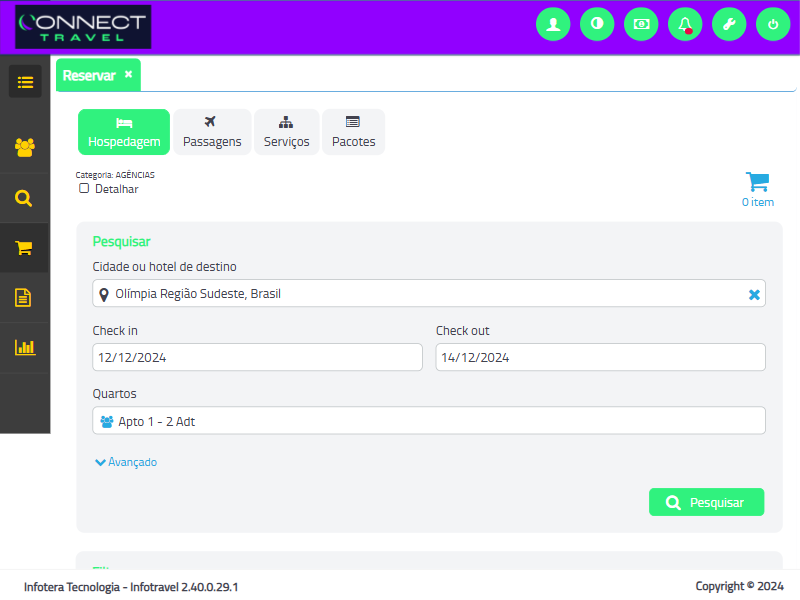
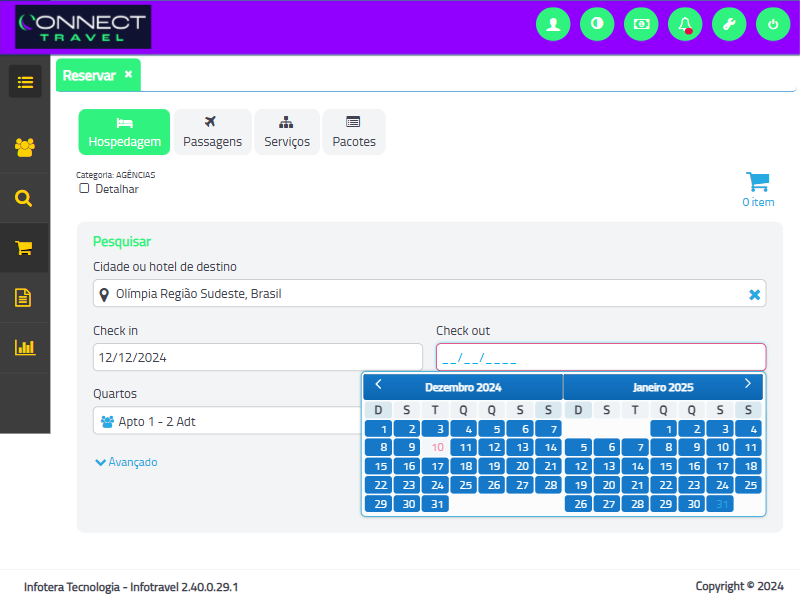
feat: Save

diff --git a/server/src/controllers/Filter/ConnectTravelController.js b/server/src/controllers/Filter/ConnectTravelController.js
@@ -15,10 +15,34 @@ const LONGER_DELAY = 2500
 
 const delay = (ms) => new Promise((resolve) => setTimeout(resolve, ms))
 
+// const waitForSelector = async (page, selector, timeout = 30000) => {
+//   console.log(`Aguardando elemento: ${selector}`)
+//   return await page.waitForSelector(selector, {
+//     visible: true,
+//     hidden: true,
+//     timeout
+//   })
+// }
+
 const waitForSelector = async (page, selector, timeout = 30000) => {
-  console.log(`Aguardando elemento: ${selector}`)
-  await page.waitForSelector(selector, { visible: true, hidden: true, timeout })
-  console.log(`Elemento "${selector}" encontrado.`)
+  try {
+    console.log(`Aguardando elemento: ${selector}`)
+    await page.waitForSelector(selector, {
+      visible: true,
+      hidden: true,
+      timeout
+    })
+    console.log(`Elemento "${selector}" encontrado.`)
+    return true // Retorna true se o elemento for encontrado
+  } catch (error) {
+    if (error.name === 'TimeoutError') {
+      console.warn(
+        `Timeout: Elemento "${selector}" não encontrado após ${timeout}ms.`
+      )
+      return false // Retorna false se não encontrar o elemento no tempo limite
+    }
+    throw error // Re-lança outros erros que não sejam de timeout
+  }
 }
 
 // const getUserInput = (query) => {
@@ -164,9 +188,10 @@ const fillBookingForm = async (
 
   const bedroomsAddAdultInputSelector = '#frmMotorHotel .fakeInput > a'
 
-  const destinationInputSelector = '#frmMotorHotel\\:idDestinoHotel_input'
-  const checkinInputSelector = '#frmMotorHotel\\:dtPartida_input'
-  const checkoutInputSelector = '#frmMotorHotel\\:dtRetorno_input'
+  const destinationInputSelector =
+    '#frmMotorHotel .motor-pesquisa-container > div > div:nth-of-type(2) > div > span > input:first-of-type'
+  const checkinInputSelector = '#frmMotorHotel input[placeholder="Check-in"]'
+  const checkoutInputSelector = '#frmMotorHotel input[placeholder="Check-out"]'
 
   await frame.type(destinationInputSelector, destination)
   await waitForSelector(frame, destinationModalSelector, 30000)
@@ -174,11 +199,17 @@ const fillBookingForm = async (
   await delay(DEFAULT_DELAY)
 
   console.log('[CONCLUÍDO] - Preenchimento de: Destino')
-  // await page.screenshot({ path: 'after-click-01.png' })
 
-  await frame.type(checkinInputSelector, checkInDate)
+  console.log(
+    '[XXXXXXXXXXX] -',
+    checkInDate.toString(),
+    checkOutDate.toString()
+  )
+
+  await frame.type(checkinInputSelector, checkInDate.toString())
   await frame.click(destinationModalClose)
-  await frame.type(checkoutInputSelector, checkOutDate)
+  await frame.click(checkoutInputSelector)
+  await frame.type(checkoutInputSelector, checkOutDate.toString())
   await frame.click(destinationModalClose)
   await delay(DEFAULT_DELAY)
 
@@ -196,7 +227,7 @@ const fillBookingForm = async (
   }
 
   console.log('[CONCLUÍDO] - Preenchimento de: Apartamentos')
-  await page.screenshot({ path: 'after-click-01.png' })
+  // await page.screenshot({ path: 'after-click-01.png' })
 
   await frame.click(bedroomsModalCloseSelector)
 
@@ -204,9 +235,13 @@ const fillBookingForm = async (
 
   const foiOuNao = await waitForSelector(frame, '#pnlTituloResultado', 10000)
 
+  await page.screenshot({ path: 'after-click-01.png' })
+
   if (!foiOuNao) {
-    await frame.click('.pnlBotaoPesquisa button')
+    await frame.click('#pnlVenda .pnlBotaoPesquisa button')
     await delay(LONGER_DELAY)
+
+    await page.screenshot({ path: 'after-click-02.png' })
   }
 }
 
@@ -214,9 +249,9 @@ const scrapeAccommodations = async (page, frame, mealType) => {
   console.log('Iniciando scraping de acomodações...')
   // await delay(2000)
 
-  await page.screenshot({ path: 'after-click-02.png' })
+  await page.screenshot({ path: 'after-click-03.png' })
 
-  await waitForSelector(frame, '#pnlTituloResultado', 30000)
+  await waitForSelector(frame, '#pnlTituloResultado', 60000)
 
   const getAllAccommodations = async () => {
     return await frame.evaluate((mealType) => {
@@ -402,15 +437,15 @@ export const findAccommodationsOnConnectTravel = async (req, res) => {
   try {
     const checkInDate = '12/12/2024'
     const checkOutDate = '14/12/2024'
-    const accommodationsCount = 0
+    const accommodationsCount = 1
     const adultCount = '2'
     const childsAges = ''
     const mealType = 'only_breakfast'
 
     const response = await executeScraping(
       checkInDate,
-      accommodationsCount,
       checkOutDate,
+      accommodationsCount,
       parseInt(adultCount),
       childsAges ? childsAges.split(',').length : 0,
       mealType

diff --git a/server/src/controllers/Filter/TravelXsController.js b/server/src/controllers/Filter/TravelXsController.js
@@ -413,17 +413,17 @@ export const findAccommodationsOnTravelXs = async (req, res) => {
   const unavailable = 'true'
 
   try {
-    const response = await formatTravelXsData(
+    const travelXsResults = await formatTravelXsData(
       checkInDate,
       checkOutDate,
       days,
-      // adultCount,
-      parseInt(adultCount),
-      childsAges ? childsAges.split(',').length : 0,
+      adultCount,
+      childsAges,
       mealType,
       unavailable
     )
-    res.json(response)
+
+    res.json(travelXsResults)
   } catch (error) {
     console.error('Erro ao processar a busca de acomodações:', error.message)
     res.status(500).json({

diff --git a/server/src/controllers/FilterController.js b/server/src/controllers/FilterController.js
@@ -84,8 +84,8 @@ export const findAccommodations = async (req, res) => {
 
     // ================================================== MERGEAR REMOVENDO IGUAIS
     const filterResults = [
-      ...connectTravelResults.filterResults,
-      ...travelXsResults.filterResults
+      ...travelXsResults.filterResults,
+      ...connectTravelResults.filterResults
     ]
 
     const response = {

diff --git a/client/src/data/admin.ts b/client/src/data/admin.ts
@@ -69,7 +69,7 @@ const filterModeSchemeData: IFilterMode[] = [
     modeLabel: 'Apenas TravelXS'
   },
   {
-    modeId: 'only_connect_travel/connect-travel',
+    modeId: '/filter/accommodations/connect-travel',
     modeLabel: 'Apenas Connect Travel'
   }
 ]

diff --git a/server/src/routes/FilterRoutes.js b/server/src/routes/FilterRoutes.js
@@ -25,4 +25,10 @@ export default router
 
     pedir para IA otimizar código
 
+    remover imagens
+
+    criar validação para quando uma das respoonse vem zerada
+
+    modal de validação do código nao pdoe ser fechavel
+
  */
